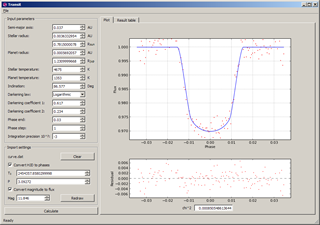
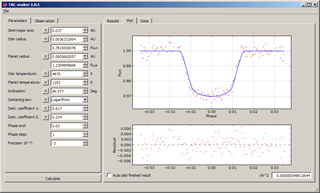
Help update for v1.0.1

Changed region(s): [[0.0, 0.0, 1.0, 0.9948], [0.9688, 0.0933, 1.0, 0.1244]]

diff --git a/tac-maker/help.html b/tac-maker/help.html
@@ -35,20 +35,23 @@
 
 		<p>The TAC-maker screen has 5 sections:</p>
 		<ul style="list-style-position: inside;">
-			<li><a href="#input">Input parameters</a> - Sets parameters of the system</li>
-			<li><a href="#import">Import settings</a> - Imports observation and transforms observation to phases/fluxes</li>
-			<li><a href="#plot">Plot</a> - Displays observation points and synthetic curve in a plot with corresponding residuals</li>
-			<li><a href="#result">Result table</a> - Displays result of the calculations along with a export function</li>
-			<li><a href="#file">File menu</a> - Saves and opens model file</li>
+			<li><a href="#parameters">Parameters</a> - Sets parameters of the system or range of values for each parameter</li>
+			<li><a href="#observation">Observation</a> - Imports observation and transforms observation to phases/fluxes</li>
+            <li><a href="#results_tab">Results tab</a> - Displays all calculations made</li>
+			<li><a href="#plot_tab">Plot tab</a> - Displays observation points and synthetic curve in a plot with corresponding residuals</li>
+			<li><a href="#data_tab">Data tab</a> - Displays values for selected result along with a export function</li>
+			<li><a href="#file_menu">File menu</a> - Saves and opens model file</li>
 		</ul>
 		<a href="#tips">Tips that are useful when working with TAC-maker</a>
 
 		<br style="clear:both;" />
 
-		<h2>Installation:</h2>
+		<h2>Installation</h2>
 		<p>Unzip the archive and run TAC-maker.exe file inside TAC-maker directory.</p>
+        <br/>
 		
-		<h2><a name="input">Input parameters</a></h2>
+		<h2><a name="parameters">Parameters</a></h2>
+        <p>Parameters section is used to set parameters of the system or a range of values. Range of values is set by "R" button next to the input field. </p>
 		<div style="margin-left:30px;">
 		<ul>
 			<li><b>Semi-major axis</b> - Radius of the orbit of transiting planet in AU</li>
@@ -56,7 +59,7 @@
 			<li><b>Planet radius</b> - Radius of the planet in AU or R<sub>jup</sub>(conversion AU <-> R<sub>jup</sub> is done automatically) </li>
 			<li><b>Stellar temperature</b> - Temperature of the star in Kelvin scale</li>
 			<li><b>Inclination</b> - Inclination of the orbit from the perspective of the observer in degrees</li>
-			<li><b>Darkening law</b> - The stellar surface darkening law used for calculations</li>
+			<li><b>Darkening law</b> - The stellar surface darkening law used for calculation</li>
 			<li><b>Darkening coefficient 1</b> - First coefficient for darkening law calculation</li>
 			<li><b>Darkening coefficient 2</b> - Second coefficient for darkening law calculation</li>
 			<li><b>Phase end</b> - The end phase of the calculation typically &lt; 0.05</li>
@@ -64,8 +67,9 @@
 			<li><b>Integration precision</b> - How small the error of integration have to be</li>
 		</ul>
 		</div>
+        <br/>
 
-		<h2><a name="import">Import settings</a></h2>
+		<h2><a name="observation">Observation</a></h2>
 		<div style="margin-left:30px;">
 			<ul>
 				<li><b>Browse... button</b> - Loads a tab separated file in (phase or HJD) (flux or magnitude) format </li>
@@ -83,22 +87,39 @@
 				<li><b>Redraw button</b> - Draws imported file on the plot</li>
 			</ul>
 		</div>
+        <br/>
 
-		<h2><a name="plot">Plot</a></h2>
+        <h2><a name="results_tab">Results tab</a></h2>
+        <p>The <b>"Results"</b> tab contains a list of all calculations made. The table can be sorted for each column, also any of the columns can be hided from right-click menu in header.</p>
+        <p>Each result can be loaded to the <b>Plot</b> and <b>Data</b> tabs by double clicking or pressing Enter key on selected row.</p>
+        <p>There is also right-click menu with this options</p>
+        <div style="margin-left:30px;">
+            <ul>
+                <li><b>Load parameters</b> - Loads this task parameters to "Parameters" section.</li>
+                <li><b>Delete</b> - Deletes this result. Result also can be deleted with Del key press.</li>
+            </ul>
+        </div>
+        <p><b>Delete all</b> button deletes all the results</p>
+        <br/>
+
+		<h2><a name="plot_tab">Plot tab</a></h2>
+        <p>The <b>"Plot"</b> tab contains two figures, depending on whether a import file is loaded:</p>
 		<div style="margin-left:30px;">
-			<p>The <b>"Plot"</b> tab contains two figures, depending on whether a import file is loaded:</p>
 			<ul>
 				<li>Top figure plots synthetic curve as blue line and imported points as red dots.</li>
 				<li>Bottom figure show the residual for synthetic and imported values along with a Χ<sup>2</sup>.</li>
 			</ul>
 		</div>
+        <p><b>Auto plot finished result</b> is used to automatically select the result when it's calculated. This option can be unchecked to speedup calculations when range of values is calculated.</p>
+        <br/>
 
-		<h2><a name="result">Result table</a></h2>
+		<h2><a name="data_tab">Data tab</a></h2>
 		<div style="margin-left:30px;">
-			<p>The <b>"Result table"</b> tab shows last calculation values. For each phase values of the synthetic and imported curve are show along with the difference between them. This table can be exported in tab separated file from the <b>"Export..."</b> button.</p>
+			<p>The <b>"Data"</b> tab shows selected result values. For each phase values of the synthetic and imported curve are shown along with the difference between them. This table can be exported in tab separated file from the <b>"Export..."</b> button.</p>
 		</div>
+        <br/>
 
-		<h2><a name="file">File menu</a></h2>
+		<h2><a name="file_menu">File menu</a></h2>
 		<div style="margin-left:30px;">
 			<p>File menu is used for opening and saving your models.</p>
 			<p>You can use <b>"data/"</b> folder for storing your observations and models files. There is one example at <b>"data/wasp10/"</b>:</p>
@@ -107,6 +128,7 @@
 				<li>wasp10.ini - Represents already saved model which can be loaded from <b>"File -> Open..."</b> menu.</li>
 			</ul>
 		</div>
+        <br/>
 
 		<h2><a name="tips">Tips</a></h2>
 		<div style="margin-left:30px;">

diff --git a/tac-maker/index.html b/tac-maker/index.html
@@ -34,7 +34,7 @@
             <div style="float:right;">
                 <a href="images/screen.png"><img src="images/screen-small.png" alt="Transit Analytical Curve maker screen" /></a>
                 <h2 style="margin-top:2px;">
-                    <a style="float:left;" href="download/TAC-maker.zip">Download</a>
+                    <a style="float:left;" href="download/TAC-maker-v1.0.1.zip">Download</a>
                     <a style="float:right;" href="help.html">Help</a>
                 </h2>
             </div>
